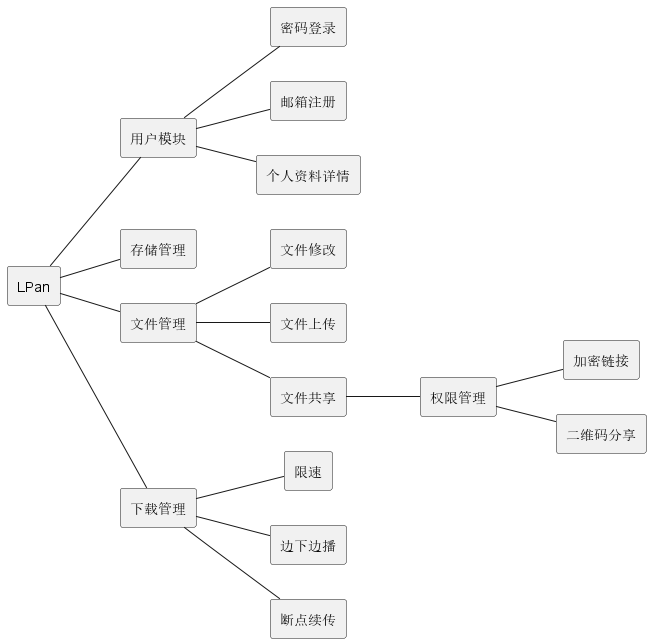
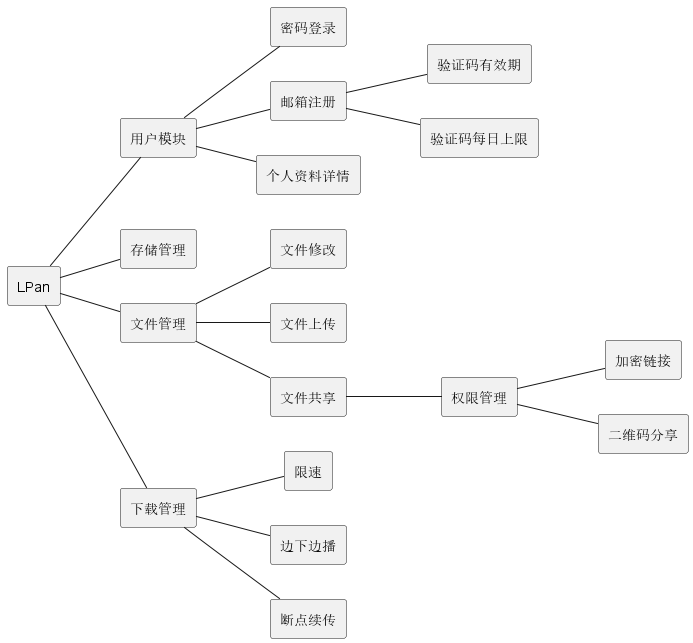
完成user部分

diff --git a/api/user.go b/api/user.go
@@ -1,0 +1,129 @@
+package api
+
+import (
+	"LPan/dao"
+	"LPan/model"
+	"LPan/service"
+	"LPan/tool"
+	"github.com/gin-gonic/gin"
+	"log"
+	"net/http"
+)
+
+//验证码登录，如果未注册直接注册
+func login(c *gin.Context) {
+	UserMail := c.PostForm("UserMail")
+	AcCode := c.PostForm("AccessCode")
+	//checkAcCode
+	code := dao.RedisDB.Get("key" + AcCode).String()
+	log.Println(code)
+
+	//解析
+	cidx := 0
+	for {
+		n := len(code[:])
+		if code[cidx] != ':' {
+			cidx++
+			if cidx > n {
+				break
+			}
+			continue
+		}
+		cidx += 2
+		break
+	}
+
+	if code[cidx:] != AcCode {
+		c.JSON(200, gin.H{
+			"code": 201,
+			"err":  "验证码错误或过期",
+		})
+		return
+	}
+
+	//check
+	isnok, err := service.IsUserExistByMail(UserMail)
+	if err != nil {
+		tool.RespInternalError(c)
+		log.Println(err)
+		return
+	}
+
+	//可以创建新账户
+	if isnok {
+		User := model.User{
+			UserMail: UserMail,
+		}
+		err = service.NewUser(User)
+		if err != nil {
+			tool.RespInternalError(c)
+			log.Println(err)
+			return
+		}
+	}
+
+	User, errr := service.GetUserInfoByMail(UserMail)
+	if errr != nil {
+		tool.RespInternalError(c)
+		log.Println(errr)
+		return
+	}
+
+	//JWT
+	AcUser := model.AcUser{
+		UserId: User.UserId,
+		AcCode: AcCode,
+	}
+
+	AcUser.UserId = User.UserId
+	// 生成Token
+	tokenString, _ := model.GenToken(AcUser)
+	c.JSON(http.StatusOK, gin.H{
+		"name":   User.UserName,
+		"status": 200,
+		"token":  tokenString,
+	})
+	return
+}
+
+//获取邮箱验证码
+func getmailac(c *gin.Context) {
+	mail := c.PostForm("UserMail")
+	var mails []string
+	mails = append(mails, mail)
+	err, bl := SendMail(mails)
+	if err != nil {
+		tool.RespInternalError(c)
+		log.Println(err)
+	} else if bl == true {
+		c.JSON(200, gin.H{
+			"code": 200,
+			"info": "Send Message Success",
+		})
+	} else {
+		c.JSON(200, gin.H{
+			"code": 203,
+			"info": "Send times limited!",
+		})
+	}
+}
+
+func updateinfo(c *gin.Context) {
+	UserName := c.PostForm("UserName")
+	User := model.User{
+		UserName: UserName,
+	}
+	_, bl := tool.LengthCheck(UserName)
+	if !bl {
+		tool.RespErrorWithData(c, "用户名长度不符合要求")
+		return
+	}
+
+	err := service.UpdateUserName(User.UserName)
+	if err != nil {
+		tool.RespInternalError(c)
+		log.Println(err)
+		return
+	}
+	tool.RespSuccessful(c, "修改用户名")
+}

diff --git a/model/jwt.go b/model/jwt.go
@@ -1,0 +1,53 @@
+package model
+
+import (
+	"errors"
+	jwt "github.com/dgrijalva/jwt-go"
+	"time"
+)
+
+// MyClaims 自定义声明结构体并内嵌jwt.StandardClaims
+// jwt包自带的jwt.StandardClaims只包含了官方字段
+// 我们这里需要额外记录一个username字段，所以要自定义结构体
+// 如果想要保存更多信息，都可以添加到这个结构体中
+type MyClaims struct {
+	UserId int
+	jwt.StandardClaims
+}
+
+// TokenExpireDuration 定义JWT的过期时间
+const TokenExpireDuration = time.Hour * 24 * 30
+
+// MySecret 自定义签名字段
+var MySecret = []byte("ayanami")
+
+// GenToken 生成JWT
+func GenToken(user AcUser) (string, error) {
+	// 创建一个我们自己的声明
+	c := MyClaims{
+		user.UserId, // 自定义字段
+		jwt.StandardClaims{
+			ExpiresAt: time.Now().Add(TokenExpireDuration).Unix(), // 过期时间
+			Issuer:    "LPan",                                     // 签发人
+		},
+	}
+	// 使用指定的签名方法创建签名对象
+	token := jwt.NewWithClaims(jwt.SigningMethodHS256, c)
+	// 使用指定的secret签名并获得完整的编码后的字符串token
+	return token.SignedString(MySecret)
+}
+
+// ParseToken 解析JWT
+func ParseToken(tokenString string) (*MyClaims, error) {
+	// 解析token
+	token, err := jwt.ParseWithClaims(tokenString, &MyClaims{}, func(token *jwt.Token) (i interface{}, err error) {
+		return MySecret, nil
+	})
+	if err != nil {
+		return nil, err
+	}
+	if claims, ok := token.Claims.(*MyClaims); ok && token.Valid { // 校验token
+		return claims, nil
+	}
+	return nil, errors.New("invalid token")
+}

diff --git a/api/router.go b/api/router.go
@@ -1,0 +1,28 @@
+package api
+
+import (
+	"github.com/gin-contrib/cors"
+	"github.com/gin-gonic/gin"
+)
+
+func RUNENGINE() {
+	r := gin.Default()
+
+	//cors解决跨域问题
+	config := cors.DefaultConfig()
+	config.AllowAllOrigins = true                                                                                                 //允许所有域名
+	config.AllowMethods = []string{"GET", "POST", "OPTIONS", "PUT", "DELETE"}                                                     //允许请求的方法
+	config.AllowHeaders = []string{"tus-resumable", "upload-length", "upload-metadata", "cache-control", "x-requested-with", "*"} //允许的Header
+	r.Use(cors.New(config))
+
+	//发送邮箱验证码
+	r.POST("/getmailac", getmailac)
+
+	//登录注册
+	r.POST("/login", login)
+
+	//修改信息
+	r.POST("/updateinfo", updateinfo)
+
+	r.Run(":9925")
+}

diff --git a/dao/run.go b/dao/run.go
@@ -1,0 +1,37 @@
+package dao
+
+import (
+	"database/sql"
+	"github.com/go-redis/redis"
+	_ "github.com/go-sql-driver/mysql"
+	"log"
+)
+
+// Db 全局变量
+var Db *sql.DB
+var RedisDB *redis.Client
+
+func RUNDB() {
+	//启用mysql数据库
+	db, err := sql.Open("mysql", "belt:4TaWj47b5YYwcLni@/belt")
+	if err != nil {
+		log.Fatal(err)
+	}
+	Db = db
+
+	//初始化redis
+	initClient()
+}
+
+func initClient() (err error) {
+	RedisDB = redis.NewClient(&redis.Options{
+		Addr:     "localhost:6379",
+		Password: "", // no password set
+		DB:       0,  // use default DB
+	})
+	_, err = RedisDB.Ping().Result()
+	if err != nil {
+		return err
+	}
+	return nil
+}

diff --git a/service/user.go b/service/user.go
@@ -1,0 +1,29 @@
+package service
+
+import (
+	"LPan/dao"
+	"LPan/model"
+	"database/sql"
+)
+
+func IsUserExistByMail(UserMail string) (bool, error) {
+	_, err := dao.SelectUserByUserMail(UserMail)
+	if err != nil && err != sql.ErrNoRows {
+		return false, err
+	} else if err == sql.ErrNoRows {
+		return true, nil
+	}
+	return false, nil
+}
+
+func NewUser(User model.User) error {
+	return dao.NewUser(User)
+}
+
+func GetUserInfoByMail(UserMail string) (model.User, error) {
+	return dao.SelectUserByUserMail(UserMail)
+}
+
+func UpdateUserName(UserName string) error {
+	return dao.UpadteUserName(UserName)
+}

diff --git a/dao/user.go b/dao/user.go
@@ -1,0 +1,21 @@
+package dao
+
+import (
+	"LPan/model"
+)
+
+func NewUser(User model.User) error {
+	_, err := Db.Exec("insert into user(user_mail)values(?)", User.UserMail)
+	return err
+}
+
+func SelectUserByUserMail(UserMail string) (model.User, error) {
+	User := model.User{}
+	err := Db.QueryRow("select user_id,user_name from user where user_mail=?", UserMail).Scan(&User)
+	return User, err
+}
+
+func UpadteUserName(UserName string) error {
+	_, err := Db.Exec("update user set user_name=?", UserName)
+	return err
+}

diff --git a/model/user.go b/model/user.go
@@ -1,0 +1,12 @@
+package model
+
+type User struct {
+	UserId   int    `json:"user_id"`
+	UserName string `json:"user_name"`
+	UserMail string `json:"user_mail"`
+}
+
+type AcUser struct {
+	UserId int    `json:"user_id"`
+	AcCode string `json:"ac_code"`
+}
